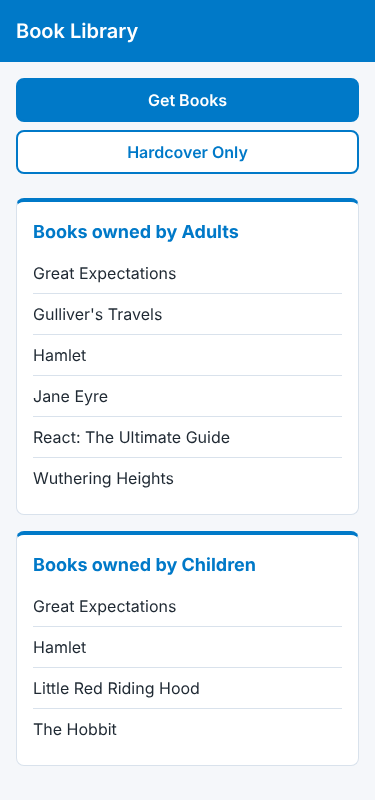
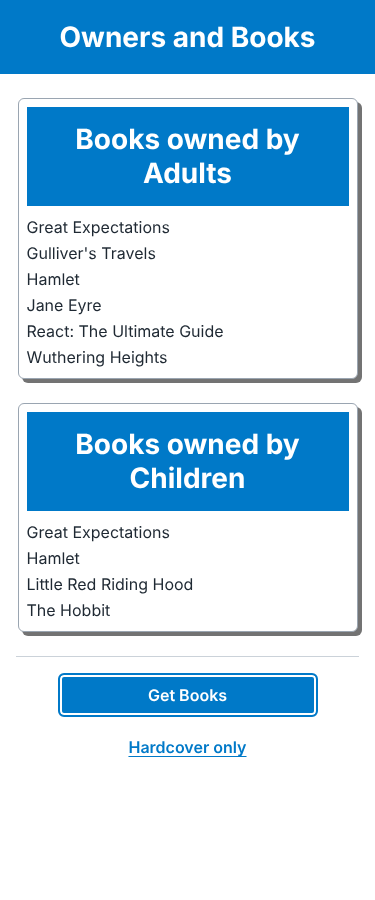
docs: README for the server + client requirement, ADR-0006 upstream behaviour, CI type-drift check
Claude-Session: https://claude.ai/code/session_019NXGUcQweLaBHVkBxaq7hD

diff --git a/README.md b/README.md
@@ -1,164 +1,151 @@
-# Book Library: Bupa coding challenge
+# Owners and Books: Bupa coding challenge
 
-Lists every book from the Bupa coding-test API alphabetically, grouped by the owner's age category (**Adults** 18+, **Children** 17 and under), with a **Hardcover only** filter.
+A React app with its own server. The **server** (an ASP.NET Core BFF) fetches the Bupa book-owner API and applies the business rules. The **client** (React + TypeScript) fetches from that server and shows every book alphabetically under the age category of its owner (**Adults** 18+, **Children** 17 and under), with a **Hardcover only** view.
 
-| Desktop (≥ 600px)                                                      | Mobile (< 600px)                                        |
-| ---------------------------------------------------------------------- | ------------------------------------------------------- |
-| ![Desktop, hardcover filter](docs/screenshots/desktop-2-hardcover.png) | ![Mobile, all books](docs/screenshots/mobile-1-all.png) |
+| Desktop (≥ 600px)                                         | Mobile (< 600px)                                                   |
+| --------------------------------------------------------- | ------------------------------------------------------------------ |
+| ![Desktop, all books](docs/screenshots/desktop-1-all.png) | ![Mobile, hardcover only](docs/screenshots/mobile-2-hardcover.png) |
 
 ## Repository layout
 
 ```
-api/    ASP.NET Core (.NET 10) backend-for-frontend: owns the business rules, calls the Bupa API
-web/    React + TypeScript client
+api/    ASP.NET Core (.NET 10) server: business rules, resilience, caching, OpenAPI contract
+web/    React + TypeScript client: fetches from api/, types generated from its OpenAPI document
 docs/   Architecture decision records (docs/adr) and screenshots
 ```
 
-> **Status:** the BFF (`api/`) is built and tested on its own. The React client still calls the upstream API through the Vite proxy and applies the rules itself. Switching it to `GET /api/v1/books` (with types generated from the BFF's OpenAPI document) is the next step.
+```
+Browser ──► web (React) ──/api/v1/books──► api (BFF) ──► Bupa API (/api/v1/bookowners)
+                                          rules, cache,      rate-limited, intermittently
+                                          retries            returns empty responses
+```
 
 ## Quick start
 
-### API (`api/`)
+Requires the **.NET 10 SDK** and **Node.js 20.19+**. Run the server and the client in two terminals:
 
-Requires the .NET 10 SDK.
+```bash
+# 1. Server: http://localhost:5080 (API reference at /scalar/v1)
+cd api
+dotnet run --project src/BupaBooks.Host
+
+# 2. Client: http://localhost:5173 (proxies /api to the server above)
+cd web
+npm ci
+npm run dev
+```
+
+### Checks
 
 ```bash
 cd api
-dotnet build                                      # also regenerates src/BupaBooks.Host/openapi/bupa-books.json
-dotnet test --filter "Category!=LiveContract"     # unit, integration and architecture tests (offline)
-dotnet test --filter "Category=LiveContract"      # checks the real Bupa API still matches our expectations
-dotnet run --project src/BupaBooks.Host           # http://localhost:5080 (API reference at /scalar/v1)
-```
+dotnet build                                    # warnings and vulnerable packages fail the build; regenerates openapi/bupa-books.json
+dotnet test --filter "Category!=LiveContract"   # unit, adapter, integration and architecture tests (offline)
+dotnet test --filter "Category=LiveContract"    # checks the real Bupa API still matches our expectations
 
-Try `GET http://localhost:5080/api/v1/books?ageCategory=child&format=hardcover`, or use `src/BupaBooks.Host/BupaBooks.Host.http`.
-
-### Web (`web/`)
-
-Requires Node.js 20.19+ (see `web/.nvmrc`).
-
-```bash
 cd web
-npm ci
-npm run dev        # http://localhost:5173, with /api proxied to the upstream API
-npm test           # unit + integration tests
-npm run ci         # everything CI runs: format, lint, typecheck, coverage gate, build
+npm run generate:api   # regenerate TypeScript types from the server's OpenAPI document
+npm run ci             # format, lint, typecheck, tests with coverage gate, build
 ```
 
-Configuration goes in `web/.env.local` (see `web/.env.example`). No secrets are needed.
+## How the requirements map to the code
 
-## BFF design at a glance
-
-- **Endpoint:** `GET /api/v1/books?ageCategory=adult|child&format=hardcover|paperback|ebook&limit=&cursor=` returns `{ items: [{ id, title, format }], page: { limit, nextCursor, totalCount } }`. No owner data leaves the server. ([ADR-0004](docs/adr/0004-bff-api-contract.md))
-- **Clean architecture in three projects:** Host → Application (domain model + use case + port) ← Infrastructure (HTTP client, resilience, cache, anti-corruption mapping). Layer rules are enforced by architecture tests. ([ADR-0005](docs/adr/0005-bff-clean-architecture.md))
-- **Reliability:** standard resilience pipeline (retry on transient errors, timeouts, circuit breaker), `HybridCache` with stampede protection, ETag/304 support, RFC 9457 problem details with `traceId`, upstream failures mapped to 502/503/504.
-- **Observability:** source-generated structured logs (no personal data), correlation id, OpenTelemetry traces and metrics (OTLP export when configured), liveness and readiness endpoints.
-
-## How the requirements map to the code (web client)
-
-| Requirement                       | Where it lives                                              | Verified by                                                  |
-| --------------------------------- | ----------------------------------------------------------- | ------------------------------------------------------------ |
-| Fetch API data                    | `features/books/api/bookOwnersApi.ts`                       | `bookOwnersApi.test.ts`                                      |
-| Adults ≥ 18, Children ≤ 17        | `features/books/domain/ageCategory.ts` (`ADULT_MIN_AGE`)    | boundary tests for 17 and 18                                 |
-| Grouped and alphabetically sorted | `features/books/domain/groupBooks.ts`                       | tests against the **live API payload** captured as a fixture |
-| "Get Books"                       | `FilterToolbar.tsx` → `BooksPage.tsx`                       | `App.test.tsx`                                               |
-| "Hardcover only"                  | `FILTER_PREDICATES` in `groupBooks.ts`                      | `App.test.tsx`, `groupBooks.test.ts`                         |
-| Dynamic headings                  | `features/books/domain/headings.ts`                         | `headingFor` table tests                                     |
-| 600px breakpoint                  | `src/index.css` (mobile-first, `@media (min-width: 600px)`) | screenshots above                                            |
-| Primary colour `#0079c8`          | `--color-primary` token in `index.css`                      | n/a                                                          |
+| Requirement                                       | Where it lives                                                                                    | Verified by                               |
+| ------------------------------------------------- | ------------------------------------------------------------------------------------------------- | ----------------------------------------- |
+| Server side that returns the data                 | `api/` → `GET /api/v1/books?ageCategory=&format=` ([ADR-0004](docs/adr/0004-bff-api-contract.md)) | `Host.IntegrationTests`                   |
+| Client side that fetches from our server          | `web/src/features/books/api/booksApi.ts` (same-origin `/api`)                                     | `booksApi.test.ts`, `App.test.tsx`        |
+| Must be a React app                               | `web/`                                                                                            | n/a                                       |
+| Adults ≥ 18, Children ≤ 17                        | `Application/Domain/Age.cs` (`AdultMinimumAge`)                                                   | `AgeTests` (17 and 18 boundaries)         |
+| All books, alphabetical, under their age category | `Application/Domain/BookSelection.cs`, `BookOrdering.cs`                                          | `BookSelectionTests`, using the live data |
+| "Get Books" / "Hardcover only"                    | `web/.../BookControls.tsx` → `?format=hardcover` on the server                                    | `App.test.tsx`, `BookSelectionTests`      |
+| Dynamic headings                                  | `web/src/features/books/headings.ts`                                                              | `headings.test.ts`, `App.test.tsx`        |
+| 600px breakpoint, `#0079c8`, reference layout     | `web/src/index.css` (mobile-first, `@media (min-width: 600px)`)                                   | screenshots above                         |
 
 ## Architecture
 
+### Server (`api/`): clean architecture in three projects ([ADR-0005](docs/adr/0005-bff-clean-architecture.md))
+
 ```
-src/
-├── config.ts                 Env-driven runtime config (base URL, timeout)
-├── lib/
-│   ├── http.ts               fetch wrapper: timeout, typed ApiError, correlation id
-│   └── logger.ts             Structured logger with a swappable sink
-├── components/ErrorBoundary.tsx
+BupaBooks.Host ─────────► BupaBooks.Application ◄───── BupaBooks.Infrastructure
+(endpoint, validation,     (Domain/ model + rules,       (typed HttpClient, resilience,
+ problem details, ETag,     GetBooks use case,            HybridCache, anti-corruption
+ OpenAPI, telemetry)        paging, IBookOwnerSource)     mapping of Bupa's JSON)
+```
+
+- **The server owns every business rule.** The client sends intent (`ageCategory=adult&format=hardcover`); it never sees an age.
+- **No personal data leaves the server.** Responses contain `{ id, title, format }` only.
+- **Reliability:** retries with backoff for 429/5xx/timeouts and for upstream's empty `200` responses ([ADR-0006](docs/adr/0006-upstream-behaviour.md)), circuit breaker, a 5-minute `HybridCache` with stampede protection (one upstream call however many users arrive at once), ETag/304, and errors as RFC 9457 problem details with a `traceId` (`502`/`503` + `Retry-After`/`504`).
+- **Boundaries are enforced by tests**, not convention: `ArchitectureTests` fail the build if the domain depends on anything else, or if Host code (other than `Program.cs`) uses Infrastructure.
+
+### Client (`web/`)
+
+```
+web/src/
+├── api/schema.d.ts         Generated from the server's OpenAPI document (npm run generate:api)
+├── config.ts               Env-driven config (same-origin base URL, timeout)
+├── lib/http.ts             fetch wrapper: timeout, typed ApiError, Retry-After, correlation id
+├── lib/logger.ts           Structured logger with a swappable sink
 └── features/books/
-    ├── api/                  Boundary: zod schema, DTO → domain mapping, fetch
-    ├── domain/               Pure business rules (no React, no I/O)
-    ├── hooks/                TanStack Query: caching, retries, cancellation
-    └── components/           Presentational + one container (BooksPage)
+    ├── model.ts            Types derived from the generated contract; filter → request mapping
+    ├── headings.ts         "Hardcover Books owned by Adults" (display text, not a business rule)
+    ├── api/booksApi.ts     GET /api/v1/books, follows paging cursors
+    ├── hooks/useBooks.ts   TanStack Query: one query per category, caching, retries
+    └── components/         BooksPage (container), BookCard, BookControls
 ```
 
-Data flows one way: **HTTP → validate → map to domain → group/filter/sort → render**. Each arrow is a function that can be tested on its own.
-
-- **Domain logic is pure.** `groupBooksByAgeCategory(owners, filter)` has no knowledge of React or HTTP. Most of the business rules are tested in milliseconds without a DOM.
-- **DTOs and domain types are separate.** The API uses `name`/`type`; the domain uses `title`/`format` with a closed union (`'hardcover' | 'paperback' | 'ebook' | 'other'`). If the API changes, only `schema.ts` changes.
-- **Exhaustive typing.** Filters, categories and error kinds are unions mapped through `Record<Union, …>` or exhaustive `switch` statements. Adding a new filter is a compile error until its heading and predicate exist.
-- **Fetch once, filter on the client.** Switching between "Get Books" and "Hardcover only" is instant and makes no extra request. The dataset is small; see the assumptions below for when that would change.
+- **One contract, two languages.** The server generates `openapi/bupa-books.json` at build time; the client generates its types from it. A server change that breaks the client is a **compile error**, and CI fails if either generated file is stale.
+- **Fetch per view, cache per view.** Each (category, filter) pair is cached, so switching back to a view already seen is instant; the server caches upstream data too.
+- **Retry only what is transient.** The client retries `503`/`504`/`429`/network errors, honouring `Retry-After`. It does **not** retry `502`, because the server has already retried the upstream.
 
 ## Key decisions
 
-Longer write-ups are in [`docs/adr`](docs/adr).
+All in [`docs/adr`](docs/adr):
 
-1. **React + TypeScript + Vite** over Power Platform or Blazor. It is the most direct way to show typed domain modelling, automated tests and a CI pipeline in a reviewable Git repo. ([ADR-0001](docs/adr/0001-technology-choice.md))
-2. **Same-origin `/api` proxy.** The browser never calls the upstream host directly. That avoids CORS dependence, keeps the upstream URL out of the bundle and leaves room for a BFF or APIM (auth, caching, rate limiting) later without changing frontend code. ([ADR-0002](docs/adr/0002-same-origin-api-proxy.md))
-3. **Runtime validation with zod.** The published Swagger document declares **no response schema**, so a TypeScript type alone would be an unchecked assumption. Malformed records are skipped and logged; a payload that is not an array fails loudly. ([ADR-0003](docs/adr/0003-runtime-validation.md))
-4. **TanStack Query for server state.** It handles de-duplication (double-clicks), caching, AbortSignal cancellation and retry/backoff without hand-rolled state machines.
-5. **Retry only what is transient.** Network errors, timeouts, 5xx, 408 and 429 are retried (max 2, exponential backoff). 4xx and contract errors are not. Retrying is safe because the request is an idempotent `GET`.
-6. **Accessibility built in.** Native buttons with `aria-pressed`, labelled `<section>` regions, a polite live region for loading, `role="alert"` for errors, visible focus rings, 44px touch targets and `prefers-reduced-motion`.
+| ADR                                             | Decision                                                                          |
+| ----------------------------------------------- | --------------------------------------------------------------------------------- |
+| [0001](docs/adr/0001-technology-choice.md)      | React + TypeScript + Vite client                                                  |
+| [0002](docs/adr/0002-same-origin-api-proxy.md)  | Browser only calls same-origin `/api` (now served by our BFF)                     |
+| [0003](docs/adr/0003-runtime-validation.md)     | Validate untrusted upstream data, skip bad records (moved to the BFF)             |
+| [0004](docs/adr/0004-bff-api-contract.md)       | API contract: filterable, paged books collection; no owner data; id assumption    |
+| [0005](docs/adr/0005-bff-clean-architecture.md) | Three-project clean architecture; domain in Application, enforced by tests        |
+| [0006](docs/adr/0006-upstream-behaviour.md)     | Upstream is rate-limited and intermittently returns empty bodies: retry and cache |
 
 ## Assumptions
 
-- **Endpoint:** `GET https://digitalcodingtest.bupa.com.au/api/v1/bookowners`. It is unauthenticated and returns `[{ name, age, books: [{ name, type }] }]`. The fixture in `src/test/fixtures` is a verbatim capture from 6 Oct 2026.
-- **Age boundary:** 18 and over is an Adult; 17 and under is a Child. Ages must be non-negative integers. Records that fail this are skipped and logged rather than guessed at.
-- **"Alphabetical"** means locale-aware (`en-AU`), case-insensitive and numeric-aware ("Book 2" before "Book 10"). Leading articles are **not** ignored ("The Hobbit" sorts under T).
-- **Duplicates:** If two owners in the same category own the same title, both copies are listed, because the data is about owned books. In the live data, the repeated titles (_Hamlet_, _Great Expectations_) fall into different categories. Changing this is a one-line change in `groupBooks.ts`.
-- **Book type matching** is case-insensitive. Unknown types map to `other`, so they show under "Get Books" but never under "Hardcover only".
-- **Owners with `books: null` or no `books` field** count as owning no books.
-- **Fetching on demand:** Nothing loads until the user clicks a button, matching "when selected". "Hardcover only" works on its own without clicking "Get Books" first.
-- **Data volume** is small. If it grew to thousands of records, filtering and pagination would move server-side (`?type=hardcover&page=…`) and the list would be virtualised.
-- **No authentication** is required by the API. See below for what production would need.
+- **Server and client.** The brief requires "a server side, to return data similar to the above, and a client side, to fetch the data from your server". We read "data similar to the above" as the grouped output (books under an age-category heading): `GET /api/v1/books?ageCategory=…` returns exactly one heading's books, already filtered and sorted.
+- **Upstream endpoint:** `GET https://digitalcodingtest.bupa.com.au/api/v1/bookowners`, unauthenticated, returning `[{ name, age, books: [{ name, type }] }]`. Its Swagger document declares no response schema, so the server validates every record.
+- **Identifiers.** The brief describes the data as _"similar to"_ the structure shown, so we assume production data carries stable ids. The test endpoint sends none, so the server derives deterministic ids when they are missing. Clients treat `id` as opaque.
+- **Age boundary:** 18 and over is an Adult; 17 and under is a Child. Records with a missing or negative age, or a missing name, are skipped and logged (without personal data).
+- **"Alphabetical"** means `en-AU`, case-insensitive and numeric-aware ("Book 2" before "Book 10"), with ties broken by id. Leading articles are **not** ignored ("The Hobbit" sorts under T).
+- **Duplicates:** every owned copy is listed. Two adults who both own _Hamlet_ produce two entries with different ids.
+- **Book types** match case-insensitively. Unknown types become `other`: shown under "Get Books", never under "Hardcover only".
+- **Fetching on demand:** nothing loads until the user clicks a button. "Hardcover only" works without clicking "Get Books" first.
+- **Data volume** is small; the client still follows paging cursors (100 per page) so it keeps working if it grows.
 
 ## Before releasing to production
 
-Treating this as a real Bupa release, these are the gaps I would close, roughly in priority order:
+**Hosting and security**
 
-**Security and compliance**
-
-- Serve through an API gateway or BFF (Azure APIM / Front Door) with **OAuth2/OIDC** (Entra ID) if the data is not public, plus rate limiting and WAF.
-- Security headers at the host: a strict **CSP** (`default-src 'self'`), HSTS, `X-Content-Type-Options`, `Referrer-Policy`, `frame-ancestors 'none'`.
-- Dependency and code scanning in CI (Dependabot is configured; add CodeQL or Snyk). Pin GitHub Actions to commit SHAs.
-- Privacy review: owner names and ages are personal information. The UI never shows them and the logs never record them. Keep it that way, and agree a data-classification and retention policy.
+- Serve the React build from the BFF (`wwwroot`, already wired with an SPA fallback) as one container, behind Azure Front Door/APIM with WAF.
+- Add **OAuth2/OIDC** (Entra ID) if the data is not public: the endpoint group is ready for `.RequireAuthorization()`.
+- Security headers: strict **CSP**, HSTS, `X-Content-Type-Options`, `Referrer-Policy`, `frame-ancestors 'none'`. Add server-side rate limiting per client.
+- Add CodeQL scanning; pin GitHub Actions to commit SHAs.
 
 **Reliability and operations**
 
-- Replace the console log sink with **Application Insights** (or equivalent), forward `X-Correlation-ID` end to end, and add web-vitals and error-rate dashboards with alerts.
-- Add a circuit breaker and response caching in the BFF, so a slow upstream does not hit every user.
-- Add a synthetic availability check against the deployed site.
+- Point the OpenTelemetry exporter at Application Insights; alert on the `recordSkipped` and upstream-failure log events and on 5xx rates.
+- Use a distributed cache (Redis) behind `HybridCache` when running more than one instance.
+- Synthetic availability check against the deployed site; the scheduled upstream contract test already covers Bupa's side.
 
-**Delivery**
+**Delivery and quality**
 
-- Branch protection on `main`: required CI checks, required review, signed commits.
-- Deployment pipeline with environment promotion (dev → test → prod), immutable build artefacts and one-click rollback. Feature flags for risky changes.
-- Track **DORA metrics** (deployment frequency, lead time, change failure rate, MTTR) from the pipeline.
-
-**Quality**
-
-- Playwright end-to-end tests against a stubbed API in CI (desktop and mobile viewports) plus automated **axe** accessibility checks.
-- Visual regression snapshots for the two breakpoints.
-- Contract test against the live API on a schedule, to detect upstream schema drift early.
+- Branch protection on `main`, environment promotion with immutable artefacts and one-click rollback; track **DORA metrics** from the pipeline.
+- Playwright end-to-end tests against the real BFF with a stubbed upstream, plus automated **axe** accessibility checks and visual snapshots at both breakpoints.
 
 ## Use of AI tooling
 
 This solution was built with an AI coding assistant, under the same rules I would apply in a team:
 
-- **Grounded in evidence:** the live API response and Swagger document were inspected before modelling. The missing response schema is what drove the runtime-validation decision.
-- **Constrained by guardrails:** strict `tsconfig` (`noUncheckedIndexedAccess`, `exactOptionalPropertyTypes`), lint with zero warnings, formatting checks, coverage thresholds (90% lines / 85% branches) and CI on every PR. Generated code has to pass the same gates as hand-written code.
-- **Reviewed by a person:** I reviewed every line, and the PR template asks reviewers to confirm the same. I am accountable for everything committed under my name, whoever or whatever typed it.
-
-## Scripts
-
-| Script                            | Purpose                                         |
-| --------------------------------- | ----------------------------------------------- |
-| `npm run dev`                     | Dev server with API proxy                       |
-| `npm run build`                   | Typecheck and production build to `dist/`       |
-| `npm run preview`                 | Serve the production build locally (with proxy) |
-| `npm test` / `npm run test:watch` | Vitest                                          |
-| `npm run test:coverage`           | Tests with the coverage gate                    |
-| `npm run lint`                    | oxlint (warnings fail the build)                |
-| `npm run typecheck`               | `tsc -b`                                        |
-| `npm run format` / `format:check` | Prettier                                        |
-| `npm run ci`                      | The full CI pipeline locally                    |
+- **Grounded in evidence:** the live API, its Swagger document and the challenge page were inspected before designing. The missing schema, the empty responses and the rate limiting each drove a design decision.
+- **Constrained by guardrails:** strict compilers on both sides (TypeScript `strict` + `exactOptionalPropertyTypes`; C# nullable + warnings as errors), NuGet vulnerability audit, lint with zero warnings, coverage thresholds, architecture tests, contract drift checks and CI on every PR. Generated code passes the same gates as hand-written code.
+- **Reviewed by a person:** I reviewed every line and can explain it. I am accountable for everything committed under my name, whoever or whatever typed it.

diff --git a/docs/adr/0006-upstream-behaviour.md b/docs/adr/0006-upstream-behaviour.md
@@ -1,0 +1,26 @@
+# ADR-0006: Design for a rate-limited, intermittently failing upstream
+
+- **Status:** Accepted
+- **Date:** 2026-10-07
+
+## Context
+
+Probing `GET /api/v1/bookowners` on 7 Oct 2026, with calls spaced about 2 seconds apart:
+
+1. **Rate limiting:** three rapid calls returned `429` with the body `"Too many requests"`.
+2. **Empty success responses:** roughly 1 call in 6 returned `200 OK` with an **empty body**.
+
+A retry policy that only looks at status codes treats (2) as success. The JSON parse then fails, and the user sees an error for a failure that a second attempt would have fixed.
+
+## Decision
+
+- **`EmptyResponseGuardHandler`** sits _inside_ the standard resilience pipeline (closest to the network). It turns an empty `2xx` body into a transient `HttpRequestException`, which the pipeline retries like a `5xx`.
+- **Retry:** up to 3 retries, exponential backoff from 500 ms with jitter, within a 10 s total budget (3 s per attempt). `429` responses are retried, honouring `Retry-After` when upstream sends it.
+- **Cache:** validated upstream data is cached for 5 minutes in `HybridCache`. Concurrent requests on a cold cache share **one** upstream call (stampede protection), which keeps us well under the rate limit. Failures are never cached.
+- **Client:** the React app does not retry `502` (the server already retried); it retries `503`/`504` and honours `Retry-After`. Its request timeout (15 s) exceeds the server's upstream budget, so the server always gets to answer with a proper error first.
+
+## Consequences
+
+- Users rarely see upstream flakiness: after the first successful call, requests are served from cache.
+- Data can be up to 5 minutes stale, which is acceptable for a book list (tunable via `BupaApi:CacheDuration`).
+- Both behaviours are covered by tests (`Empty_upstream_responses_are_retried`, `Rate_limited_responses_are_retried`), and the scheduled live contract test exercises the real endpoint.

diff --git a/docs/adr/0003-runtime-validation.md b/docs/adr/0003-runtime-validation.md
@@ -1,6 +1,6 @@
 # ADR-0003: Validate API responses at runtime, tolerating bad records
 
-- **Status:** Accepted
+- **Status:** Accepted, amended 2026-10-07: the same policy now runs in the BFF (`BupaPayloadReader`), where untrusted data enters. The client trusts its own server and uses generated types instead of zod.
 - **Date:** 2026-10-06
 
 ## Context

diff --git a/docs/adr/0002-same-origin-api-proxy.md b/docs/adr/0002-same-origin-api-proxy.md
@@ -1,6 +1,6 @@
 # ADR-0002: Call the API through a same-origin `/api` path
 
-- **Status:** Accepted
+- **Status:** Accepted, amended 2026-10-07: `/api` now goes to our own BFF (`api/`), not to the Bupa API (see ADR-0004)
 - **Date:** 2026-10-06
 
 ## Context
